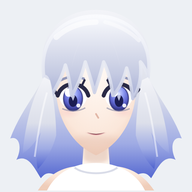
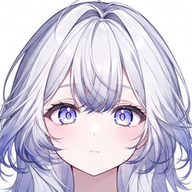
v2.0.0: wajah ilustrasi (10 ekspresi), kedip & mulut bicara dari gambar
Claude-Session: https://claude.ai/code/session_01MYJwr1VfoWsd2GyhHBrFqM

diff --git a/index.html b/index.html
@@ -42,16 +42,18 @@ button:focus-visible,textarea:focus-visible,input:focus-visible,select:focus-vis
 .dot.off{background:var(--muted)}
 .facewrap{display:grid;place-items:center;min-height:0}
 .ring{position:relative;display:grid;place-items:center;width:min(78vw,52vh,420px);aspect-ratio:1}
-.ring svg{width:100%;height:100%;display:block;cursor:pointer}
+.pic{position:relative;width:100%;height:100%;border-radius:26%;overflow:hidden;background:#ffffff;cursor:pointer;box-shadow:0 18px 40px rgba(20,30,60,.18)}
+.pic .layer{position:absolute;inset:0;width:100%;height:100%;object-fit:cover;opacity:0;transition:opacity .28s ease}
+.pic .layer.on{opacity:1}
+.pic .ov{transition:opacity .07s linear}
+.pic .ov.on{opacity:1}
 .ring::before{content:"";position:absolute;inset:-5%;border-radius:50%;border:3px solid var(--accent);opacity:0;transition:opacity .3s;pointer-events:none}
 .ring.listening::before{opacity:.8;animation:ring 1.6s ease-out infinite}
 @keyframes ring{0%{transform:scale(.94);opacity:.8}100%{transform:scale(1.1);opacity:0}}
 @media (prefers-reduced-motion:reduce){.ring.listening::before{animation:none;opacity:.5}}
-.face-float{animation:float 4s ease-in-out infinite;transform-origin:60px 60px}
+.face-float{animation:float 4s ease-in-out infinite}
 @keyframes float{0%,100%{transform:translateY(0)}50%{transform:translateY(-1.5px)}}
 @media (prefers-reduced-motion:reduce){.face-float{animation:none}}
-.face .brow,.face .eye,.face .mouth,.face .lips,.face .pupil,.face .cheek{transition:transform .35s cubic-bezier(.3,1.3,.5,1),opacity .35s,d .25s ease}
-.face .eye,.face .brow,.face .pupil{transform-box:fill-box;transform-origin:center}
 .state{text-align:center;font:600 13px var(--body);letter-spacing:.06em;text-transform:uppercase;color:var(--muted);min-height:18px}
 .state.live{color:var(--accent)}
 .transcript{text-align:center;display:flex;flex-direction:column;gap:6px;max-width:560px;margin:0 auto;width:100%;min-height:0}
@@ -131,91 +133,12 @@ textarea{flex:1;min-width:0;resize:none;border:1px solid var(--line);border-radi
 
   <div class="facewrap">
     <div class="ring" id="ring">
-      <svg class="face" id="face" viewBox="0 0 120 120" role="img" aria-label="Wajah Nara">
-        <defs>
-          <radialGradient id="skinG" cx="50%" cy="35%" r="70%"><stop offset="0" stop-color="#fff8f2"/><stop offset=".7" stop-color="#fbe7da"/><stop offset="1" stop-color="#efcdb9"/></radialGradient>
-          <linearGradient id="hairBack" x1="0" y1="0" x2="0" y2="1"><stop offset="0" stop-color="#f3f4f8"/><stop offset=".5" stop-color="#dcdfea"/><stop offset=".78" stop-color="#9fabe4"/><stop offset="1" stop-color="#4f63cf"/></linearGradient>
-          <linearGradient id="hairFront" x1="0" y1="0" x2="0" y2="1"><stop offset="0" stop-color="#fafbfe"/><stop offset=".7" stop-color="#e4e7f1"/><stop offset="1" stop-color="#c3c9e3"/></linearGradient>
-          <linearGradient id="strandDark" x1="0" y1="0" x2="0" y2="1"><stop offset="0" stop-color="#b9bfd8" stop-opacity="0"/><stop offset="1" stop-color="#9aa3cf" stop-opacity=".7"/></linearGradient>
-          <radialGradient id="irisG" cx="50%" cy="28%" r="72%"><stop offset="0" stop-color="#cfd8ff"/><stop offset=".35" stop-color="#8b97f0"/><stop offset=".7" stop-color="#5a60c9"/><stop offset="1" stop-color="#2a2c74"/></radialGradient>
-          <radialGradient id="blushG"><stop offset="0" stop-color="#f4a0a8" stop-opacity=".6"/><stop offset="1" stop-color="#f4a0a8" stop-opacity="0"/></radialGradient>
-          <filter id="soft" x="-30%" y="-30%" width="160%" height="160%"><feGaussianBlur stdDeviation="2"/></filter>
-          <filter id="soft1" x="-30%" y="-30%" width="160%" height="160%"><feGaussianBlur stdDeviation="1"/></filter>
-          <clipPath id="faceClip"><path d="M60 22 C77 22 86 36 86 54 C86 72 76 90 60 97 C44 90 34 72 34 54 C34 36 43 22 60 22 Z"/></clipPath>
-        </defs>
-        <g class="face-float">
-          <!-- rambut belakang: tebal, mengembang, ujung runcing -->
-          <path d="M26 46 C20 16 40 2 60 2 C80 2 100 16 94 46 C100 58 110 70 116 86 C110 84 108 92 112 100 C104 96 100 106 96 112 C90 104 86 114 80 108 C76 116 70 108 66 114 L54 114 C50 108 44 116 40 108 C34 114 30 104 24 112 C20 106 16 96 8 100 C12 92 10 84 4 86 C10 70 20 58 26 46 Z" fill="url(#hairBack)"/>
-          <!-- leher & kaus putih -->
-          <path d="M52 90 L68 90 L69 104 C80 104 90 108 98 120 L22 120 C30 108 40 104 51 104 Z" fill="url(#skinG)"/>
-          <path d="M52 90 L68 90 L68 100 C64 103 56 103 52 100 Z" fill="#dcb8a6" opacity=".5" filter="url(#soft1)"/>
-          <path d="M28 120 C34 108 46 102 60 102 C74 102 86 108 92 120 Z" fill="#ffffff"/>
-          <path d="M46 105 C52 110 68 110 74 105" fill="none" stroke="#d9dce8" stroke-width="1.2"/>
-          <!-- wajah tirus, dagu lancip -->
-          <path d="M60 22 C77 22 86 36 86 54 C86 72 76 90 60 97 C44 90 34 72 34 54 C34 36 43 22 60 22 Z" fill="url(#skinG)"/>
-          <g clip-path="url(#faceClip)">
-            <ellipse cx="60" cy="93" rx="22" ry="9" fill="#dcae9c" opacity=".3" filter="url(#soft)"/>
-            <path d="M34 46 C40 34 50 28 60 28 C70 28 80 34 86 46 L86 28 L34 28 Z" fill="#9aa1c4" opacity=".35" filter="url(#soft)"/>
-            <ellipse cx="60" cy="40" rx="18" ry="8" fill="#ffffff" opacity=".25" filter="url(#soft)"/>
-          </g>
-          <!-- rona di bawah mata -->
-          <ellipse class="cheek" data-k="cheekL" cx="42" cy="69" rx="8" ry="4" fill="url(#blushG)" opacity=".35"/>
-          <ellipse class="cheek" data-k="cheekR" cx="78" cy="69" rx="8" ry="4" fill="url(#blushG)" opacity=".35"/>
-          <!-- hidung mungil -->
-          <path d="M60 70 L61.5 72.5" fill="none" stroke="#dba997" stroke-width="1.1" stroke-linecap="round" opacity=".8"/>
-          <!-- alis tipis -->
-          <path class="brow" data-k="browL" d="M37 48 Q44 44 52 47" stroke="#9398b8" stroke-width="1.6" stroke-linecap="round" fill="none"/>
-          <path class="brow" data-k="browR" d="M68 47 Q76 44 83 48" stroke="#9398b8" stroke-width="1.6" stroke-linecap="round" fill="none"/>
-          <!-- mata besar, lembut -->
-          <g class="eye" data-k="eyeL">
-            <path d="M36 59 C38 50 52 50 54 59 C53 69 38 70 36 59 Z" fill="#ffffff"/>
-            <g class="pupil" data-k="pupL">
-              <ellipse cx="45" cy="60" rx="6.2" ry="8" fill="url(#irisG)"/>
-              <ellipse cx="45" cy="60" rx="6.2" ry="8" fill="none" stroke="#2a2c74" stroke-width=".8" opacity=".7"/>
-              <ellipse cx="45" cy="61.5" rx="2.8" ry="3.9" fill="#1b1d52"/>
-              <path d="M45 55.5 L46.2 58.5 L45 61.5 L43.8 58.5 Z" fill="#e3e8ff" opacity=".8"/>
-              <ellipse cx="42" cy="56" rx="2.4" ry="2.8" fill="#ffffff"/>
-              <circle cx="48.5" cy="64.5" r="1.3" fill="#ffffff" opacity=".9"/>
-            </g>
-            <path d="M35 58 C38 48 52 48 55 58" fill="none" stroke="#2a2a46" stroke-width="2.6" stroke-linecap="round"/>
-            <path d="M35 58 C34 56 33 55 32 54" fill="none" stroke="#2a2a46" stroke-width="2" stroke-linecap="round"/>
-            <path d="M51 51 L52.5 48" fill="none" stroke="#2a2a46" stroke-width="1.4" stroke-linecap="round"/>
-            <path d="M38 66.5 C42 68.5 49 68.5 53 66" fill="none" stroke="#7a7d9c" stroke-width=".9" opacity=".55"/>
-          </g>
-          <g class="eye" data-k="eyeR">
-            <path d="M66 59 C68 50 82 50 84 59 C82 70 67 69 66 59 Z" fill="#ffffff"/>
-            <g class="pupil" data-k="pupR">
-              <ellipse cx="75" cy="60" rx="6.2" ry="8" fill="url(#irisG)"/>
-              <ellipse cx="75" cy="60" rx="6.2" ry="8" fill="none" stroke="#2a2c74" stroke-width=".8" opacity=".7"/>
-              <ellipse cx="75" cy="61.5" rx="2.8" ry="3.9" fill="#1b1d52"/>
-              <path d="M75 55.5 L76.2 58.5 L75 61.5 L73.8 58.5 Z" fill="#e3e8ff" opacity=".8"/>
-              <ellipse cx="72" cy="56" rx="2.4" ry="2.8" fill="#ffffff"/>
-              <circle cx="78.5" cy="64.5" r="1.3" fill="#ffffff" opacity=".9"/>
-            </g>
-            <path d="M65 58 C68 48 82 48 85 58" fill="none" stroke="#2a2a46" stroke-width="2.6" stroke-linecap="round"/>
-            <path d="M85 58 C86 56 87 55 88 54" fill="none" stroke="#2a2a46" stroke-width="2" stroke-linecap="round"/>
-            <path d="M69 51 L67.5 48" fill="none" stroke="#2a2a46" stroke-width="1.4" stroke-linecap="round"/>
-            <path d="M67 66 C71 68.5 78 68.5 82 66.5" fill="none" stroke="#7a7d9c" stroke-width=".9" opacity=".55"/>
-          </g>
-          <!-- bibir kecil & mulut -->
-          <path class="lips" data-k="lips" d="M53 82 Q60 86 67 82 Q60 85 53 82 Z" fill="#eaa7ad" opacity=".9"/>
-          <path class="mouth" data-k="mouth" d="M54 82 Q60 85 66 82 Q60 84 54 82 Z" fill="#7a3b46"/>
-          <!-- poni: berbelah tengah, helai runcing mengarah ke mata -->
-          <path d="M26 46 C22 20 40 6 60 6 C80 6 98 20 94 46 C93 42 91 38 89 36 C90 46 88 54 84 60 C83 52 82 46 80 40 C78 48 75 54 71 58 C70 50 68 42 65 36 C63 44 61 50 59 56 C57 48 55 42 53 36 C51 44 48 52 44 58 C43 50 42 44 40 38 C38 46 34 52 31 58 C30 50 28 44 26 46 Z" fill="url(#hairFront)"/>
-          <path d="M26 46 C22 20 40 6 60 6 C80 6 98 20 94 46 C93 42 91 38 89 36 C90 46 88 54 84 60 C83 52 82 46 80 40 C78 48 75 54 71 58 C70 50 68 42 65 36 C63 44 61 50 59 56 C57 48 55 42 53 36 C51 44 48 52 44 58 C43 50 42 44 40 38 C38 46 34 52 31 58 C30 50 28 44 26 46 Z" fill="url(#strandDark)"/>
-          <path d="M26 46 C22 20 40 6 60 6 C80 6 98 20 94 46 C93 42 91 38 89 36 C90 46 88 54 84 60 C83 52 82 46 80 40 C78 48 75 54 71 58 C70 50 68 42 65 36 C63 44 61 50 59 56 C57 48 55 42 53 36 C51 44 48 52 44 58 C43 50 42 44 40 38 C38 46 34 52 31 58 C30 50 28 44 26 46 Z" fill="none" stroke="url(#hairFront)" stroke-width="2.2" stroke-linejoin="round" stroke-linecap="round" opacity=".9"/>
-          <!-- helai poni tambahan yang menyilang -->
-          <path d="M60 8 C52 16 47 26 44 40 C46 30 50 18 60 8 Z" fill="#ffffff" opacity=".5"/>
-          <path d="M60 8 C68 16 73 26 76 40 C74 30 70 18 60 8 Z" fill="#ffffff" opacity=".5"/>
-          <path d="M34 20 C40 14 50 10 60 10" fill="none" stroke="#ffffff" stroke-width="3.5" stroke-linecap="round" opacity=".6"/>
-          <path d="M66 10 C74 12 82 16 88 22" fill="none" stroke="#ffffff" stroke-width="2.5" stroke-linecap="round" opacity=".45"/>
-          <!-- helai samping tebal di depan, mengembang ke luar -->
-          <path d="M26 46 C18 60 14 76 12 96 C18 92 22 86 24 82 C22 90 20 98 22 106 C28 100 32 92 34 84 C34 72 32 58 30 48 Z" fill="url(#hairBack)"/>
-          <path d="M94 46 C102 60 106 76 108 96 C102 92 98 86 96 82 C98 90 100 98 98 106 C92 100 88 92 86 84 C86 72 88 58 90 48 Z" fill="url(#hairBack)"/>
-          <path d="M28 56 C24 70 22 84 20 98" fill="none" stroke="#ffffff" stroke-width="1.2" opacity=".5"/>
-          <path d="M92 56 C96 70 98 84 100 98" fill="none" stroke="#ffffff" stroke-width="1.2" opacity=".5"/>
-        </g>
-      </svg>
+      <div class="pic face-float" id="face" role="img" aria-label="Wajah Nara">
+        <img class="layer" id="imgA" alt="">
+        <img class="layer" id="imgB" alt="">
+        <img class="layer ov" id="imgTalk" src="img/bicara.webp" alt="">
+        <img class="layer ov" id="imgBlink" src="img/kedip.webp" alt="">
+      </div>
     </div>
   </div>
 
@@ -321,7 +244,7 @@ textarea{flex:1;min-width:0;resize:none;border:1px solid var(--line);border-radi
 <script>
 (function(){
 'use strict';
-const APP_VER='1.6.2';
+const APP_VER='2.0.0';
 const $=id=>document.getElementById(id);
 const col=$('col'), main=$('main'), input=$('input'), sendBtn=$('sendBtn'), hint=$('hint');
 
@@ -367,42 +290,23 @@ async function pullSync(){
 }
 function setSync(t,ok){ const el=$('syncStatus'); if(el){ el.textContent=t; el.className='status-line '+(ok?'ok':'err'); } }
 
-// ---------- face ----------
-function makeFace(svg){
-  const q=k=>svg.querySelector('[data-k="'+k+'"]');
-  const el={browL:q('browL'),browR:q('browR'),eyeL:q('eyeL'),eyeR:q('eyeR'),pupL:q('pupL'),pupR:q('pupR'),mouth:q('mouth'),lips:q('lips'),cheekL:q('cheekL'),cheekR:q('cheekR')};
-  return el;
-}
-const EXP={
-  netral:   {brow:[0,0,0],   eye:1,    pupil:[0,0],  mouth:{w:15,y:82,c:4,o:1.5},   cheek:0,   label:'siap'},
-  senang:   {brow:[-4,4,-2], eye:.95,  pupil:[0,0],  mouth:{w:17,y:81,c:10,o:2.5},  cheek:.35, label:'senang'},
-  tertawa:  {brow:[-6,6,-3], eye:.3,   pupil:[0,0],  mouth:{w:17,y:80,c:8,o:12},  cheek:.4,  label:'tertawa'},
-  sedih:    {brow:[16,-16,-1],eye:.8,  pupil:[0,2],  mouth:{w:13,y:85,c:-6,o:1.5},  cheek:0,   label:'sedih'},
-  kaget:    {brow:[0,0,-7],  eye:1.25, pupil:[0,0],  mouth:{w:8,y:82,c:0,o:12},  cheek:.2,  label:'kaget'},
-  berpikir: {brow:[-10,10,-3],eye:.9,  pupil:[4,-4], mouth:{w:10,y:83,c:-2,o:1},  cheek:0,   label:'berpikir…'},
-  peduli:   {brow:[9,-9,-2], eye:.92,  pupil:[0,0],  mouth:{w:14,y:82,c:5,o:1.5},   cheek:.25, label:'peduli'},
-  mendengar:{brow:[0,0,-5],  eye:1.1,  pupil:[0,-1], mouth:{w:7,y:82,c:2,o:5},   cheek:0,   label:'mendengarkan'},
-  bingung:  {brow:[-12,4,-2],eye:.9,   pupil:[-3,0], mouth:{w:11,y:83,c:-1,o:1.5},  cheek:0,   label:'bingung'}
-};
+// ---------- face (gambar ilustrasi per ekspresi) ----------
+const EXP_LABEL={netral:'siap',senang:'senang',tertawa:'tertawa',sedih:'sedih',kaget:'kaget',berpikir:'berpikir…',peduli:'peduli',mendengar:'mendengarkan',bingung:'bingung'};
+const EXP_IMG={netral:'img/netral.webp',senang:'img/senang.webp',tertawa:'img/tertawa.webp',sedih:'img/sedih.webp',kaget:'img/kaget.webp',berpikir:'img/berpikir.webp',peduli:'img/peduli.webp',mendengar:'img/peduli.webp',bingung:'img/bingung.webp'};
 const ALIAS={bahagia:'senang',gembira:'senang',senyum:'senang',lucu:'tertawa',haha:'tertawa',murung:'sedih',kecewa:'sedih',terkejut:'kaget',wow:'kaget',mikir:'berpikir',penasaran:'berpikir',empati:'peduli',perhatian:'peduli',biasa:'netral',tenang:'netral',heran:'bingung',ragu:'bingung'};
-const faces=[makeFace($('face'))];
-let cur='netral', talking=false;
-function mouthPath(m,extra){ const x1=60-m.w/2,x2=60+m.w/2,o=m.o+extra; return `M${x1} ${m.y} Q60 ${m.y+m.c} ${x2} ${m.y} Q60 ${m.y+m.c+o} ${x1} ${m.y} Z`; }
-function lipsPath(m,extra){ const x1=60-m.w/2-1.5,x2=60+m.w/2+1.5,o=m.o+extra; return `M${x1} ${m.y} Q60 ${m.y+m.c-1.5} ${x2} ${m.y} Q60 ${m.y+m.c+o+1.5} ${x1} ${m.y} Z`; }
+Object.values(EXP_IMG).concat(['img/bicara.webp','img/kedip.webp']).forEach(u=>{ const i=new Image(); i.src=u; });
+const imgA=$('imgA'), imgB=$('imgB'), imgTalk=$('imgTalk'), imgBlink=$('imgBlink');
+let cur='netral', talking=false, front=imgA, blinking=false, talkTimer=null;
 function applyFace(name){
-  const e=EXP[name]||EXP.netral; cur=EXP[name]?name:'netral';
-  faces.forEach(el=>{
-    el.browL.style.transform=`rotate(${e.brow[0]}deg) translateY(${e.brow[2]}px)`;
-    el.browR.style.transform=`rotate(${e.brow[1]}deg) translateY(${e.brow[2]}px)`;
-    el.eyeL.style.transform=el.eyeR.style.transform=`scaleY(${e.eye})`;
-    el.pupL.style.transform=el.pupR.style.transform=`translate(${e.pupil[0]}px,${e.pupil[1]}px)`;
-    el.cheekL.style.opacity=el.cheekR.style.opacity=Math.max(.3,e.cheek);
-    if(!talking){ el.mouth.setAttribute('d',mouthPath(e.mouth,0)); el.lips&&el.lips.setAttribute('d',lipsPath(e.mouth,0)); }
-  });
+  const n=EXP_IMG[name]?name:'netral'; cur=n;
+  const back=front===imgA?imgB:imgA;
+  if(back.getAttribute('src')!==EXP_IMG[n]) back.src=EXP_IMG[n];
+  back.classList.add('on'); front.classList.remove('on'); front=back;
 }
-const face={ set(n){ applyFace(ALIAS[n]||n); }, setTalking(v){ talking=!!v; applyFace(cur); } };
-(function blink(){ setTimeout(()=>{ const e=EXP[cur]; faces.forEach(el=>[el.eyeL,el.eyeR].forEach(x=>{x.style.transition='transform .08s';x.style.transform='scaleY(.08)';})); setTimeout(()=>{ faces.forEach(el=>[el.eyeL,el.eyeR].forEach(x=>{x.style.transform=`scaleY(${e.eye})`;setTimeout(()=>x.style.transition='',120);})); },110); blink(); },2600+Math.random()*3400); })();
-(function tick(ts){ if(talking){ const e=EXP[cur]; const o=4+Math.abs(Math.sin(ts/90))*7+Math.abs(Math.sin(ts/230))*3; faces.forEach(el=>{ el.mouth.setAttribute('d',mouthPath(e.mouth,o)); el.lips&&el.lips.setAttribute('d',lipsPath(e.mouth,o)); }); } requestAnimationFrame(tick); })(0);
+imgA.src=EXP_IMG.netral; imgA.classList.add('on');
+const face={ set(n){ applyFace(ALIAS[n]||n); }, setTalking(v){ talking=!!v; if(!talking){ clearTimeout(talkTimer); imgTalk.classList.remove('on'); } else talkLoop(); } };
+function talkLoop(){ if(!talking) return; const open=cur!=='tertawa'&&!blinking&&Math.random()<.6; imgTalk.classList.toggle('on',open); talkTimer=setTimeout(talkLoop,open?90+Math.random()*90:120+Math.random()*160); }
+(function blink(){ setTimeout(()=>{ if(cur!=='tertawa'){ blinking=true; imgTalk.classList.remove('on'); imgBlink.classList.add('on'); setTimeout(()=>{ imgBlink.classList.remove('on'); blinking=false; },130); } blink(); },2800+Math.random()*3600); })();
 function stripMood(text){
   const m=text.match(/^\s*\[([a-zA-Z]+)\]\s*/); if(m) return {mood:m[1].toLowerCase(),body:text.slice(m[0].length)};
   if(/^\s*\[[a-zA-Z]*$/.test(text)) return {mood:null,body:''};
